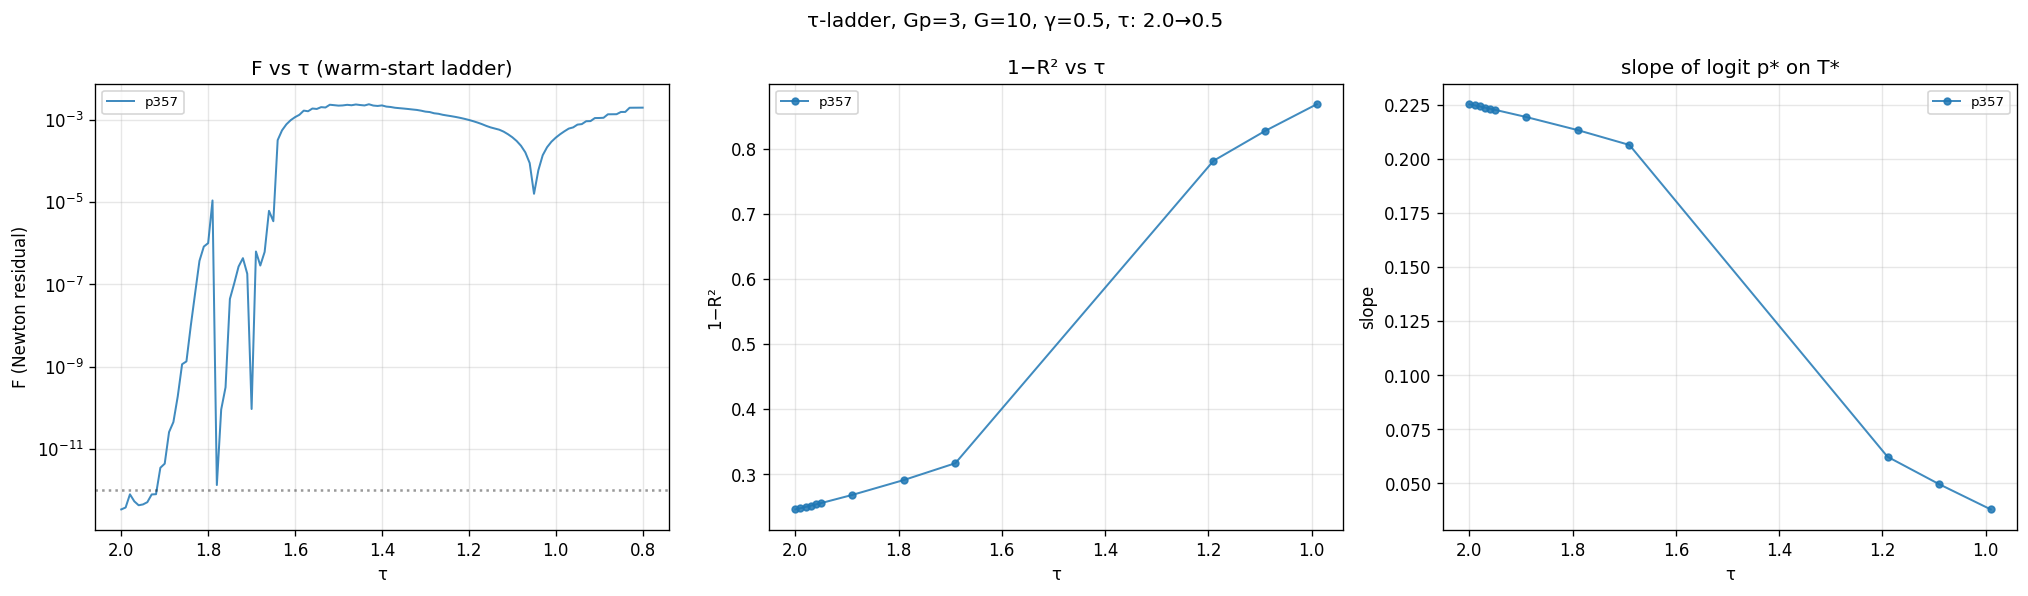
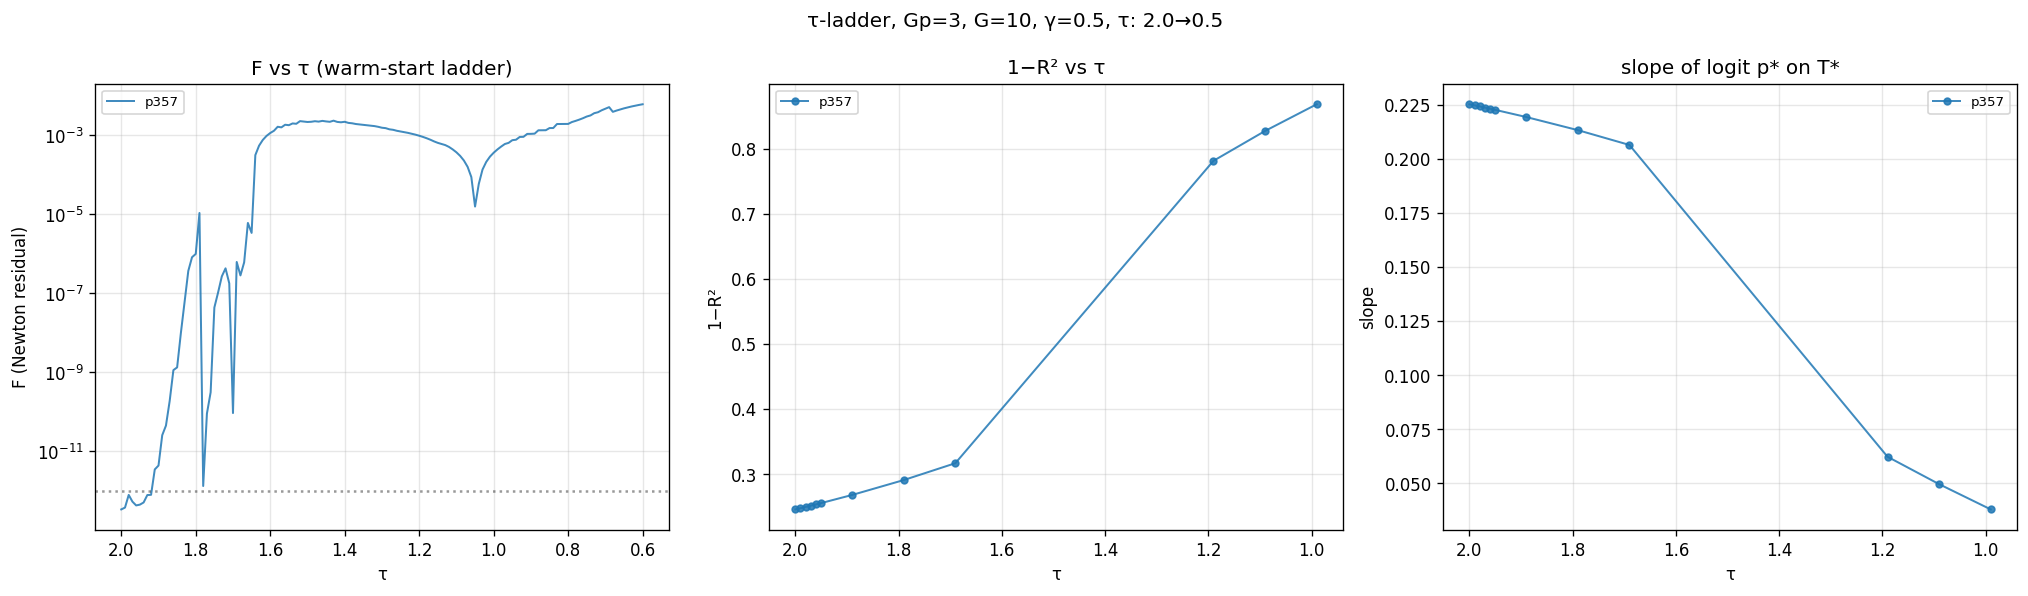
τ-ladder p357: τ→0.60

diff --git a/projects/REZN/checkpoints/tau_ladder/summary.md b/projects/REZN/checkpoints/tau_ladder/summary.md
@@ -121,3 +121,23 @@
 | p357 | 0.82 | 1.95e-03 | 1 | nan | nan | 1.2s |
 | p357 | 0.81 | 1.96e-03 | 1 | nan | nan | 1.2s |
 | p357 | 0.80 | 1.96e-03 | 1 | nan | nan | 1.4s |
+| p357 | 0.79 | 2.19e-03 | 2 | nan | nan | 1.6s |
+| p357 | 0.78 | 2.34e-03 | 2 | nan | nan | 1.8s |
+| p357 | 0.77 | 2.52e-03 | 2 | nan | nan | 1.6s |
+| p357 | 0.76 | 2.74e-03 | 2 | nan | nan | 1.7s |
+| p357 | 0.75 | 3.02e-03 | 2 | nan | nan | 1.6s |
+| p357 | 0.74 | 3.22e-03 | 2 | nan | nan | 1.7s |
+| p357 | 0.73 | 3.67e-03 | 2 | nan | nan | 1.6s |
+| p357 | 0.72 | 3.87e-03 | 2 | nan | nan | 1.8s |
+| p357 | 0.71 | 4.35e-03 | 2 | nan | nan | 1.6s |
+| p357 | 0.70 | 4.78e-03 | 2 | nan | nan | 1.7s |
+| p357 | 0.69 | 5.22e-03 | 3 | nan | nan | 2.9s |
+| p357 | 0.68 | 3.97e-03 | 7 | nan | nan | 5.6s |
+| p357 | 0.67 | 4.27e-03 | 2 | nan | nan | 2.1s |
+| p357 | 0.66 | 4.57e-03 | 2 | nan | nan | 2.2s |
+| p357 | 0.65 | 4.86e-03 | 2 | nan | nan | 2.1s |
+| p357 | 0.64 | 5.14e-03 | 2 | nan | nan | 2.2s |
+| p357 | 0.63 | 5.41e-03 | 1 | nan | nan | 1.1s |
+| p357 | 0.62 | 5.68e-03 | 2 | nan | nan | 2.2s |
+| p357 | 0.61 | 5.93e-03 | 1 | nan | nan | 1.2s |
+| p357 | 0.60 | 6.17e-03 | 1 | nan | nan | 1.1s |